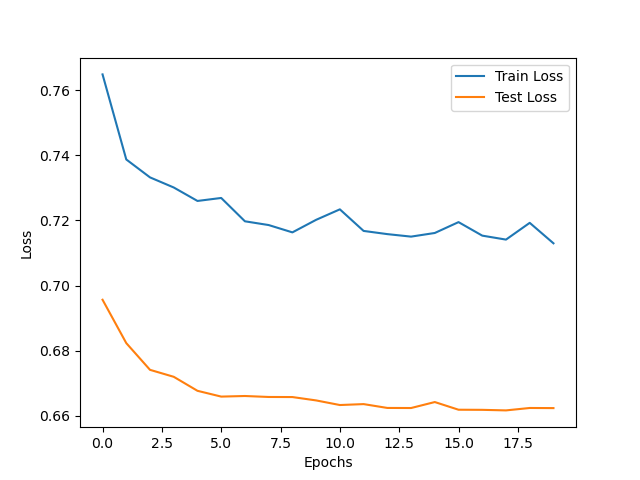
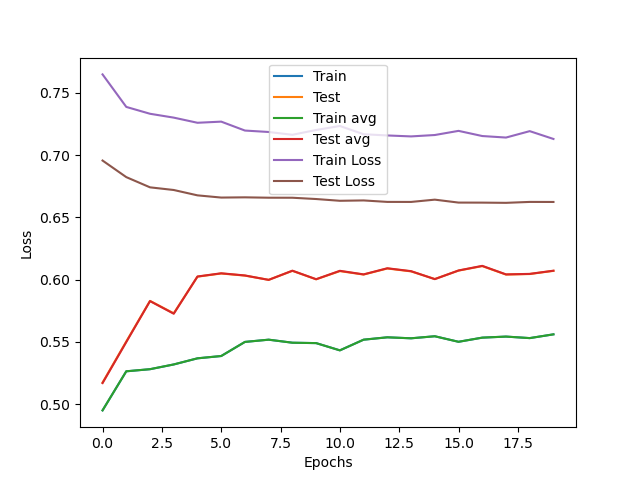
Update test images

diff --git a/Main project/PointCloud_Classification_DGCNN_Group843/Code/graph.py b/Main project/PointCloud_Classification_DGCNN_Group843/Code/graph.py
@@ -15,7 +15,6 @@ print('Train acc avg: ',float(Train_Accuracy_average.loc[epoch]))
 print('Train Loss: ',float(Train_Loss.loc[epoch]))
 print('Test Loss: ',float(Test_Loss.loc[epoch]))
 
-fig1 = plt.figure()
 plt.xlabel('Epochs')
 plt.ylabel('Accuracy')
 plt.plot(Train_Accuracy_normal, label='Train')
@@ -24,13 +23,12 @@ plt.plot(Train_Accuracy_average, label='Train avg')
 plt.plot(Test_Accuracy_average, label='Test avg')
 plt.legend()
 #plt.show()
-fig1.savefig('accuracy2.png')
+plt.savefig('accuracy2.png')
 
-fig2 = plt.figure()
 plt.xlabel('Epochs')
 plt.ylabel('Loss')
 plt.plot(Train_Loss, label='Train Loss')
 plt.plot(Test_Loss, label='Test Loss')
 plt.legend()
 #plt.show()
-fig2.savefig('loss2.png')
+plt.savefig('loss2.png')
